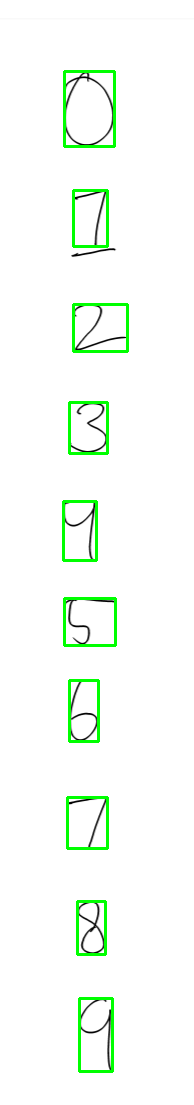
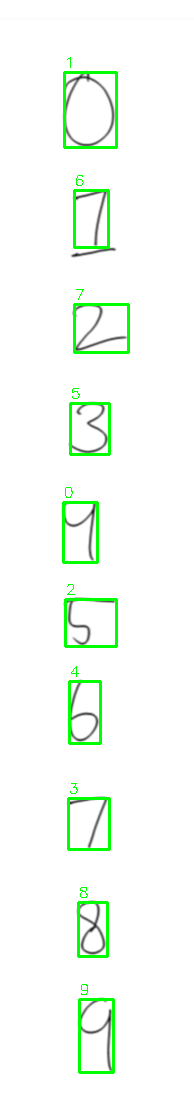
Final for task 1/2

diff --git a/segmentation.py b/segmentation.py
@@ -2,42 +2,88 @@ import cv2
 import numpy as np
 
 class image_segmentation:
-    def __init__(self, min_area_ratio=0.2, max_ar=2.5, crop_size=28, margin=2, center=True):
+    def __init__(self, min_area_ratio=0.1, max_ar=4.0, crop_size=28, margin=5, center=True):
         self.min_area_ratio = min_area_ratio
-        self.max_ar = max_ar
+        self.max_ar = max_ar 
         self.crop_size = crop_size
         self.margin = margin
         self.center = center
 
     def segmentation(self, gray):
-        bw = self._binarize_otsu(gray)
+        # Try multiple binarization methods and pick the best
+        bw = self._best_binarization(gray)
+        
+        kernel = cv2.getStructuringElement(cv2.MORPH_RECT, (2, 2))
+        bw = cv2.morphologyEx(bw, cv2.MORPH_CLOSE, kernel)
+        
         num_labels, labels, stats, centroids = cv2.connectedComponentsWithStats(bw, connectivity=8)
+        
         if num_labels <= 1:
+            print("No components found")
             return [], []
         
-        bboxes = self._filter_components(stats, num_labels)
+        print(f"Found {num_labels-1} connected components")
+        
+        bboxes = self._filter_components(stats, num_labels, gray.shape)
         bboxes.sort(key=lambda b: b[0])
+        
         crops = self._extract_crops(bw, bboxes)
 
         return bboxes, crops
     
-    def _binarize_otsu(self, gray):
+    def _best_binarization(self, gray):
         if gray.ndim == 3:
             gray = cv2.cvtColor(gray, cv2.COLOR_BGR2GRAY)
         if gray.dtype != np.uint8:
             gray = gray.astype(np.uint8)
         
-        _, bw = cv2.threshold(gray, 0, 255, cv2.THRESH_BINARY_INV + cv2.THRESH_OTSU)
-        return bw
+        # Method 1: Otsu thresholding
+        _, bw1 = cv2.threshold(gray, 0, 255, cv2.THRESH_BINARY_INV + cv2.THRESH_OTSU)
+        
+        # Method 2: Adaptive thresholding
+        bw2 = cv2.adaptiveThreshold(gray, 255, cv2.ADAPTIVE_THRESH_GAUSSIAN_C, 
+                                   cv2.THRESH_BINARY_INV, 11, 2)
+        
+        # Method 3: Simple threshold based on mean
+        mean_val = np.mean(gray)
+        _, bw3 = cv2.threshold(gray, mean_val, 255, cv2.THRESH_BINARY_INV)
+        
+        methods = [bw1, bw2, bw3]
+        best_bw = bw1
+        best_score = 0
+        
+        for bw in methods:
+            num_labels, _, stats, _ = cv2.connectedComponentsWithStats(bw, connectivity=8)
+            if 3 <= num_labels-1 <= 20:
+                score = min(num_labels-1, 20-(num_labels-1))
+                if score > best_score:
+                    best_score = score
+                    best_bw = bw
+        
+        return best_bw
     
-    def _filter_components(self, stats, num_labels):
+    def _filter_components(self, stats, num_labels, image_shape):
+        if num_labels <= 1:
+            return []
+            
         areas = [stats[i, cv2.CC_STAT_AREA] for i in range(1, num_labels)]
+        heights = [stats[i, cv2.CC_STAT_HEIGHT] for i in range(1, num_labels)]
+        widths = [stats[i, cv2.CC_STAT_WIDTH] for i in range(1, num_labels)]
+        
         if not areas:
             return []
-        med_area = np.median(areas) if areas else 0
-        if med_area <= 0:
-            return []
-
+            
+        med_area = np.median(areas)
+        med_height = np.median(heights)
+        med_width = np.median(widths)
+        
+        min_area_threshold = max(50, self.min_area_ratio * med_area) 
+        min_height = max(10, 0.3 * med_height)
+        min_width = max(5, 0.2 * med_width)
+        
+        image_area = image_shape[0] * image_shape[1]
+        max_area_threshold = 0.3 * image_area  
+        
         bboxes = []
         for i in range(1, num_labels):
             x = stats[i, cv2.CC_STAT_LEFT]
@@ -46,12 +92,19 @@ class image_segmentation:
             h = stats[i, cv2.CC_STAT_HEIGHT]
             area = stats[i, cv2.CC_STAT_AREA]
 
-            if area < self.min_area_ratio * med_area:
+            if area < min_area_threshold or area > max_area_threshold:
+                continue
+            
+            if h < min_height or w < min_width:
                 continue
 
             ar = max(w / max(h, 1), h / max(w, 1))
             if ar > self.max_ar:
                 continue
+            
+            if x < 2 or y < 2 or x+w > image_shape[1]-2 or y+h > image_shape[0]-2:
+                if area < med_area * 0.5: 
+                    continue
 
             bboxes.append((x, y, w, h, area))
         
@@ -63,26 +116,39 @@ class image_segmentation:
             x0 = max(0, x - self.margin)
             y0 = max(0, y - self.margin)
             x1 = min(bw.shape[1], x + w + self.margin)
-            y1 = min(bw.shape[0], x + h + self.margin)
+            y1 = min(bw.shape[0], y + h + self.margin)  
             digit = bw[y0:y1, x0:x1]
+            
+            if digit.size == 0:
+                continue
             
             H, W = digit.shape
             s = max(H, W)
+            
+            s = int(s * 1.2)
+            
             pad_t = (s - H) // 2
             pad_b = s - H - pad_t
             pad_l = (s - W) // 2
             pad_r = s - W - pad_l
-            sq = cv2.copyMakeBorder(digit, pad_t, pad_b, pad_l, pad_r, borderType=cv2.BORDER_CONSTANT, value=0)
+            
+            sq = cv2.copyMakeBorder(digit, pad_t, pad_b, pad_l, pad_r, 
+                                  borderType=cv2.BORDER_CONSTANT, value=0)
 
             if self.center:
                 ys, xs = np.where(sq > 0)
-                if len(xs):
+                if len(xs) > 0 and len(ys) > 0:
                     cx = int(xs.mean())
                     cy = int(ys.mean())
                     tx = sq.shape[1] // 2 - cx
                     ty = sq.shape[0] // 2 - cy
-                    M = np.float32([[1, 0 , tx], [0, 1, ty]])
-                    sq = cv2.warpAffine(sq, M, (sq.shape[1], sq.shape[0]), flags=cv2.INTER_NEAREST, borderValue=0)
+                    
+                    tx = max(-sq.shape[1]//4, min(sq.shape[1]//4, tx))
+                    ty = max(-sq.shape[0]//4, min(sq.shape[0]//4, ty))
+                    
+                    M = np.float32([[1, 0, tx], [0, 1, ty]])
+                    sq = cv2.warpAffine(sq, M, (sq.shape[1], sq.shape[0]), 
+                                      flags=cv2.INTER_NEAREST, borderValue=0)
             
             crop = cv2.resize(sq, (self.crop_size, self.crop_size), interpolation=cv2.INTER_AREA)
             crop = (crop > 0).astype(np.uint8) * 255

diff --git a/test.py b/test.py
@@ -6,20 +6,25 @@ out_dir = "digits"
 path = "handWrittenDigitsTest.png"
 os.makedirs(out_dir, exist_ok=True)
 
-processor = image_preprocessor(path, size = (28, 28))
+processor = image_preprocessor(path, size=(28, 28))
 pre = processor.preprocess()
 processor.show_image(pre)
 
-seg = image_segmentation()
+seg = image_segmentation(min_area_ratio=0.1, max_ar=4.0, margin=5)
 bboxes, crops = seg.segmentation(pre)
-print(f"Found {len(bboxes)} components")
+#rint(f"Found {len(bboxes)} valid components")
 
 for i, crop in enumerate(crops):
-    cv2.imwrite(os.path.join(out_dir, f"digit_{i:03}.png"), crop)
+        cv2.imwrite(os.path.join(out_dir, f"digit_{i:03}.png"), crop)
 
 vis = cv2.cvtColor(pre, cv2.COLOR_GRAY2BGR)
-for (x,y,w,h,_) in bboxes:
-    cv2.rectangle(vis, (x,y), (x+w,y+h), (0,255,0), 2)
+for i, (x, y, w, h, area) in enumerate(bboxes):
+        cv2.rectangle(vis, (x, y), (x+w, y+h), (0, 255, 0), 2)
+        cv2.putText(vis, str(i), (x, y-5), cv2.FONT_HERSHEY_SIMPLEX, 0.5, (0, 255, 0), 1)
+    
 cv2.imwrite(os.path.join(out_dir, "debug_boxes.png"), vis)
+    
+_, debug_binary = cv2.threshold(pre, 0, 255, cv2.THRESH_BINARY_INV + cv2.THRESH_OTSU)
+cv2.imwrite(os.path.join(out_dir, "debug_binary.png"), debug_binary)
 
-print(f"Saved crops and overlay to: {out_dir}")
+print(f"Saved {len(crops)} crops and debug images to: {out_dir}")

diff --git a/preprocess.py b/preprocess.py
@@ -2,27 +2,24 @@ import cv2
 import numpy as np
 
 class image_preprocessor:
-    def __init__(self,image_path=None, binarize=False, size=(28, 28)):
+    def __init__(self, image_path=None, binarize=False, size=(28, 28)):
         self.size = size
         self.binarize = binarize
         self.image_path = image_path
-        # self.image = self.preprocess()
 
     def preprocess(self):
-        # Read the image
         img = cv2.imread(self.image_path)
         if img is None:
             raise ValueError(f"Image at path {self.image_path} could not be read.")
         
-        # Grayscale Image conversion:
         img = cv2.cvtColor(img, cv2.COLOR_BGR2GRAY)
 
-        # Resize the image:
-        # img = cv2.resize(img, self.size)
+        # For noise reduction
+        img = cv2.GaussianBlur(img, (3, 3), 0)
 
         if self.binarize:
-            # Binarize the image
-            pass
+            img = cv2.adaptiveThreshold(img, 255, cv2.ADAPTIVE_THRESH_GAUSSIAN_C, 
+                                      cv2.THRESH_BINARY, 11, 2)
         
         print(f"Image preprocessed: {self.size}, Binarize: {self.binarize}")
         return img
@@ -30,3 +27,4 @@ class image_preprocessor:
     def show_image(self, image):
         cv2.imshow('Preprocessed Image', image)
         cv2.waitKey(0)
+        cv2.destroyAllWindows()
